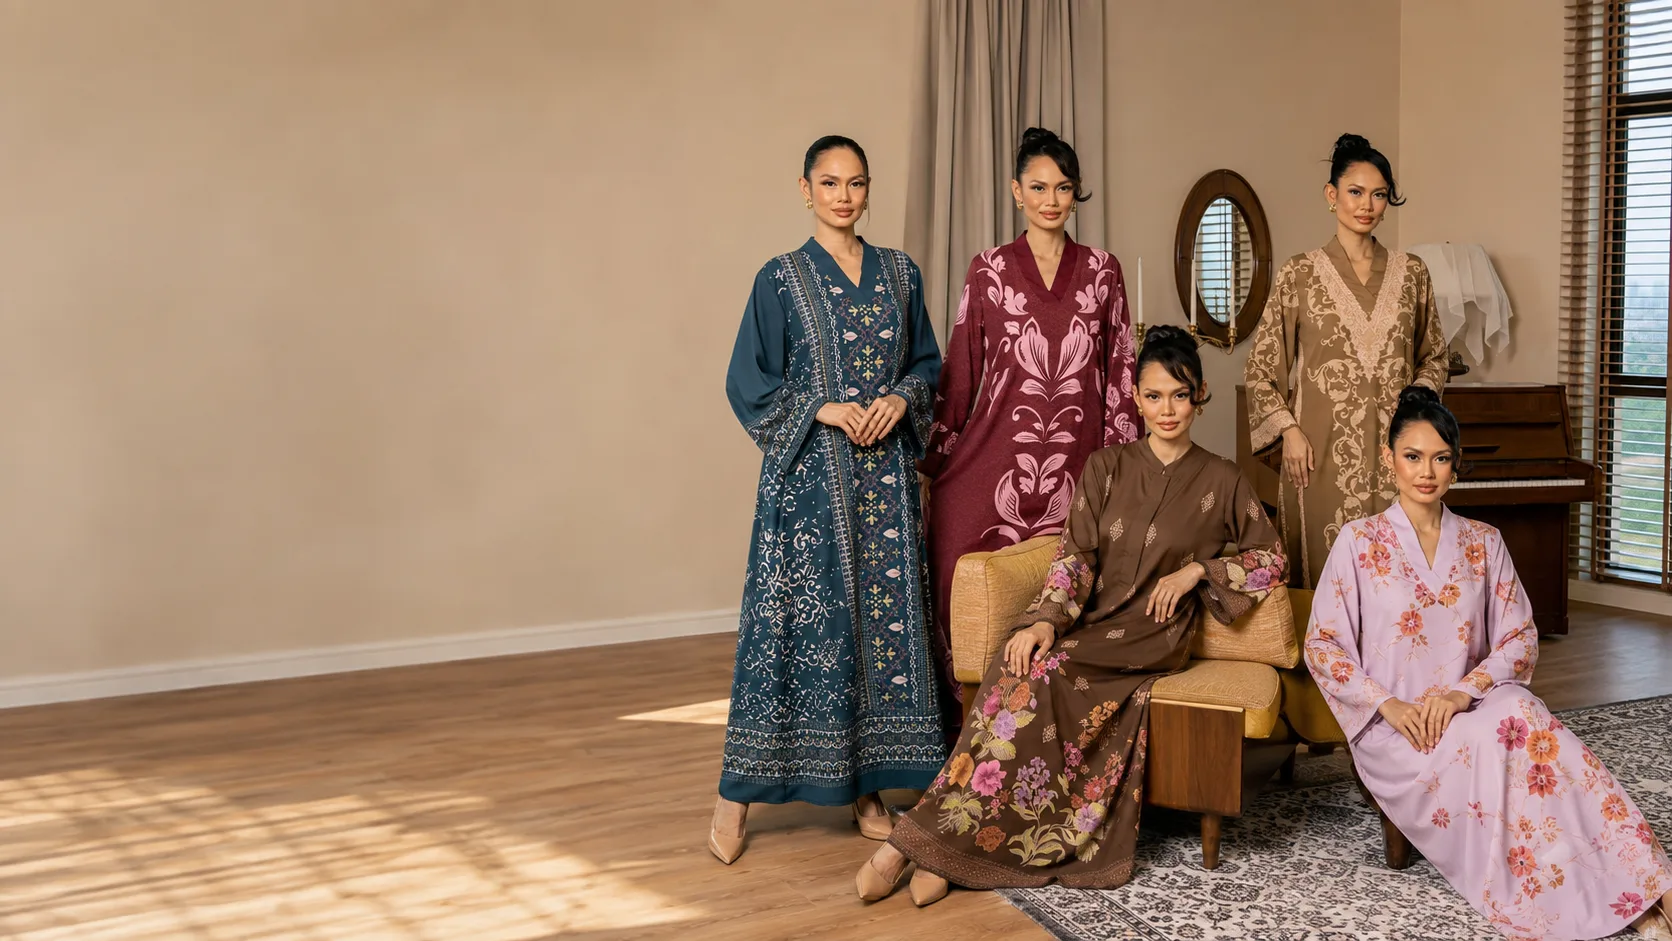
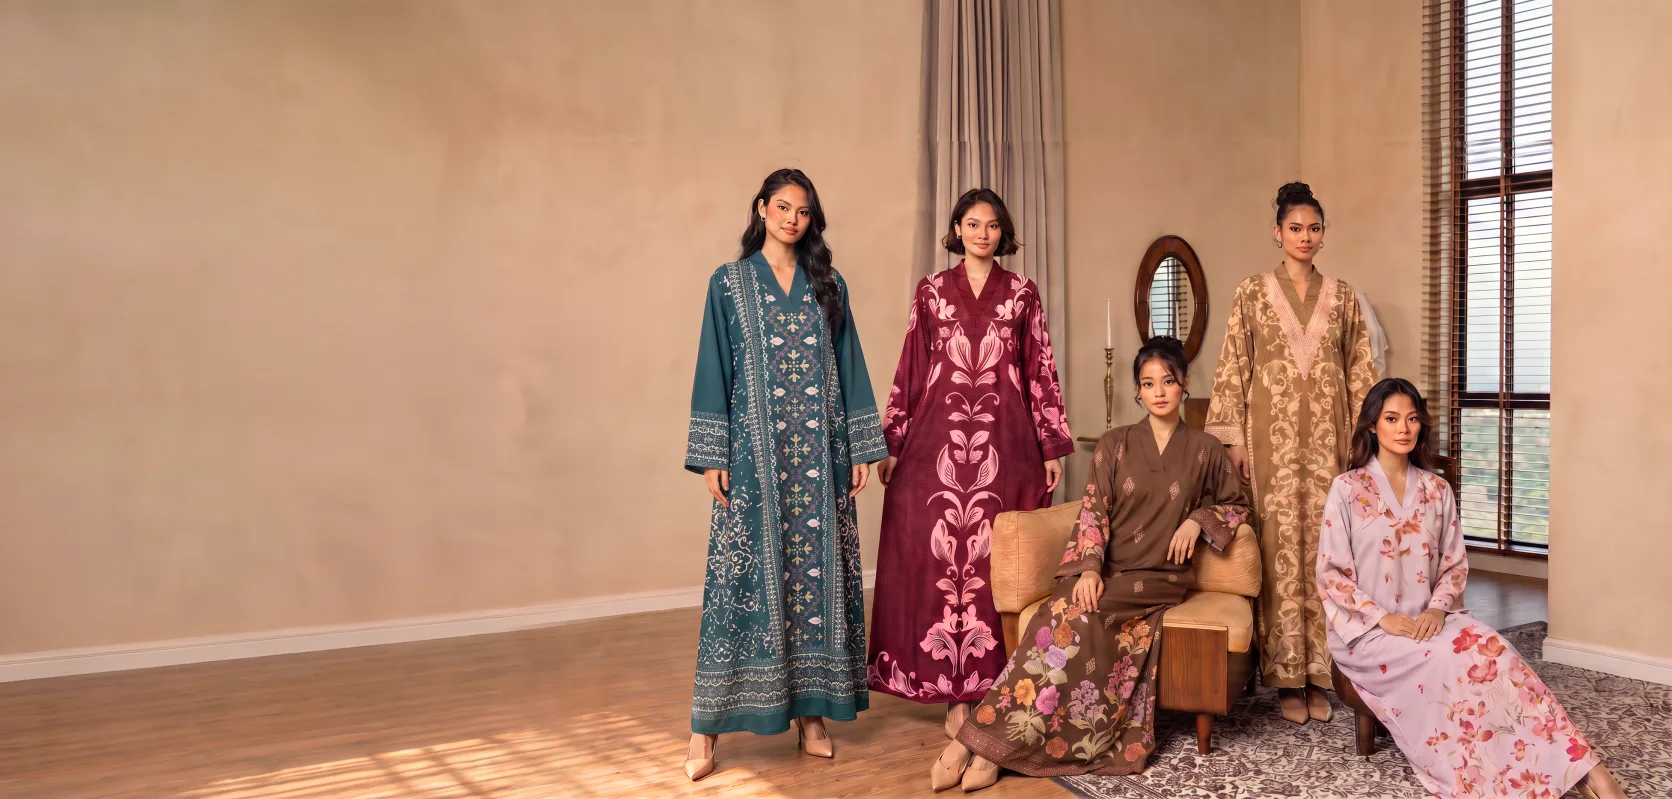
Client feedback, hero image: corrected masters with matching prints
Desktop renders (900/1400/1672) come from raya-hero-desktop-textspace.png,
a wider 2.09:1 crop with empty wall on the left for the title; mobile
renders (480/941) from raya-hero-mobile.png. Blur placeholders and
intrinsic dimensions regenerated. The unused 853px mobile render is gone.

Claude-Session: https://claude.ai/code/session_01Qh1GGYyHPos9ZuknwKTAwd

diff --git a/components/hoor/hero.tsx b/components/hoor/hero.tsx
@@ -13,7 +13,7 @@ export function Hero() {
             <source media="(max-width: 899px)" sizes="100vw" srcSet="/assets/img/hero_mobile-480.webp 480w, /assets/img/hero_mobile-941.webp 941w" />
             {/* eslint-disable-next-line @next/next/no-img-element */}
             <img className="loaded" src="/assets/img/hero_desktop-1400.webp" sizes="100vw" srcSet="/assets/img/hero_desktop-900.webp 900w, /assets/img/hero_desktop-1400.webp 1400w, /assets/img/hero_desktop-1672.webp 1672w"
-              alt="The Batik Dolu-Dolu collection: five prints worn together in a Kuala Lumpur apartment" width={1672} height={941} fetchPriority="high" decoding="async" />
+              alt="The Batik Dolu-Dolu collection: five prints worn together in a Kuala Lumpur apartment" width={1672} height={799} fetchPriority="high" decoding="async" />
           </picture>
         </div>
       </div>

diff --git a/FEEDBACK.md b/FEEDBACK.md
@@ -5,8 +5,8 @@ Tick as done. Items marked ⚠ need something from the client before they can be
 
 ## Hero
 
-- [ ] **1. Hero image: prints do not match the real dresses** ⚠
-  "Corak lari dari design sebenar, betulkan corak supaya sama." The hero photo shows prints that differ from the actual garments. Needs a corrected image from the client, or a swap to a real product photo.
+- [x] **1. Hero image: prints do not match the real dresses**
+  "Corak lari dari design sebenar, betulkan corak supaya sama." Replaced with the corrected masters: `raya-hero-desktop-textspace.png` (desktop) and `raya-hero-mobile.png` (mobile).
 - [x] **2. Hero lead copy** — `components/hoor/hero.tsx`
   Change to: "Made from Premium Cotton Silk, in a comfortable A-Cutline for easy movement. Suitable for petite and plus size woman."
 - [x] **3. Claims bar cut off on mobile** — `components/hoor/hero.tsx` (Claims), `app/hoor.css`
